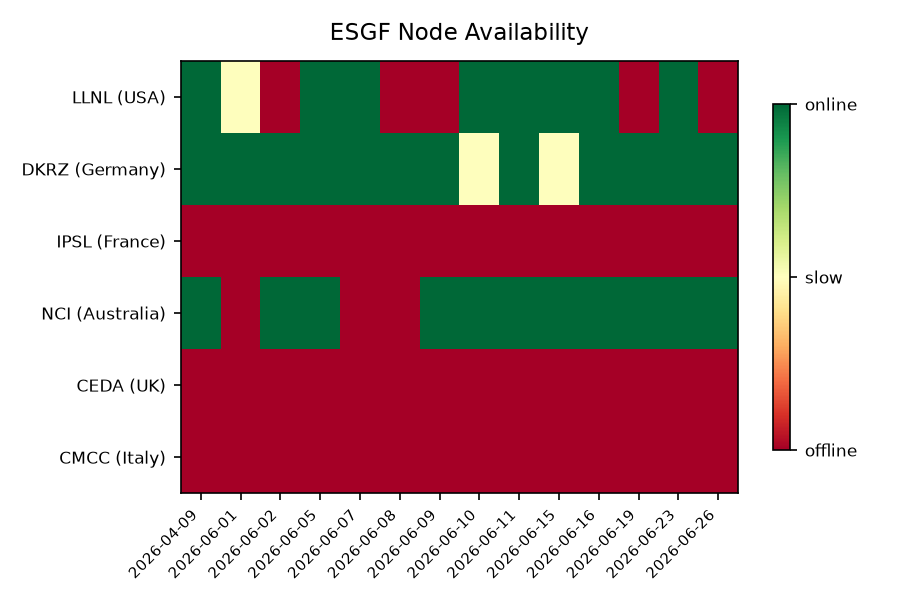
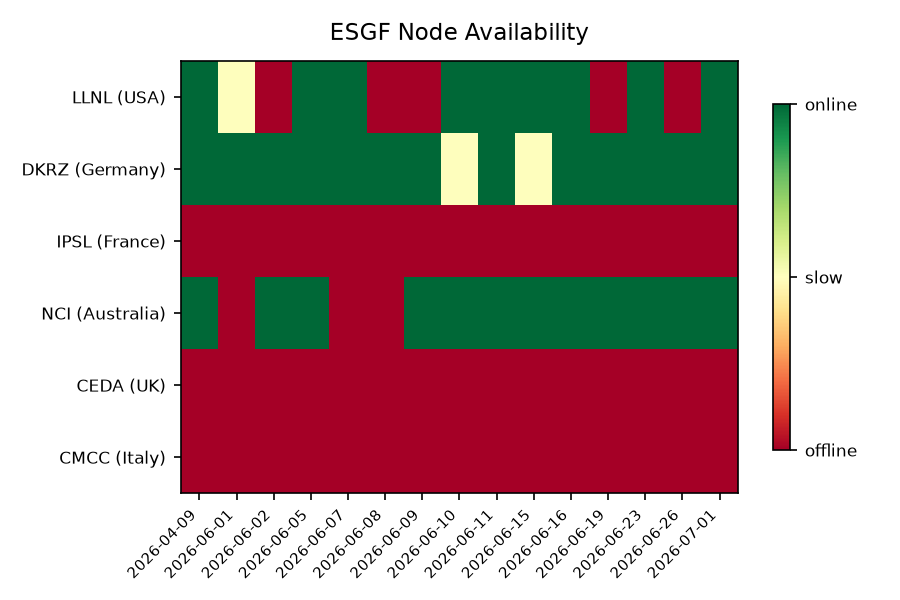
daily: update CMIP6 ESGF node availability status

diff --git a/docs/esgf-status.md b/docs/esgf-status.md
@@ -1,15 +1,15 @@
 # ESGF Node Availability Status
 
-_Last checked: 2026-06-26 UTC_
+_Last checked: 2026-07-01 UTC_
 
 | Node | URL | Status | Response (ms) |
 |------|-----|--------|---------------|
-| LLNL (USA) | https://esgf-node.llnl.gov/thredds/catalog.html | 🔴 offline | — |
-| DKRZ (Germany) | https://esgf-data.dkrz.de/thredds/catalog.html | 🟢 online | 1402 |
-| IPSL (France) | https://esgf-node.ipsl.upmc.fr/thredds/catalog.html | 🔴 offline | 667 |
-| NCI (Australia) | https://esgf.nci.org.au/thredds/catalog.html | 🟢 online | 1852 |
+| LLNL (USA) | https://esgf-node.llnl.gov/thredds/catalog.html | 🟢 online | 1149 |
+| DKRZ (Germany) | https://esgf-data.dkrz.de/thredds/catalog.html | 🟢 online | 1334 |
+| IPSL (France) | https://esgf-node.ipsl.upmc.fr/thredds/catalog.html | 🔴 offline | 743 |
+| NCI (Australia) | https://esgf.nci.org.au/thredds/catalog.html | 🟢 online | 2507 |
 | CEDA (UK) | https://esgf-index1.ceda.ac.uk/thredds/catalog.html | 🔴 offline | — |
-| CMCC (Italy) | https://esgf-node.cmcc.it/thredds/catalog.html | 🔴 offline | 702 |
+| CMCC (Italy) | https://esgf-node.cmcc.it/thredds/catalog.html | 🔴 offline | 684 |
 
 ---
 
